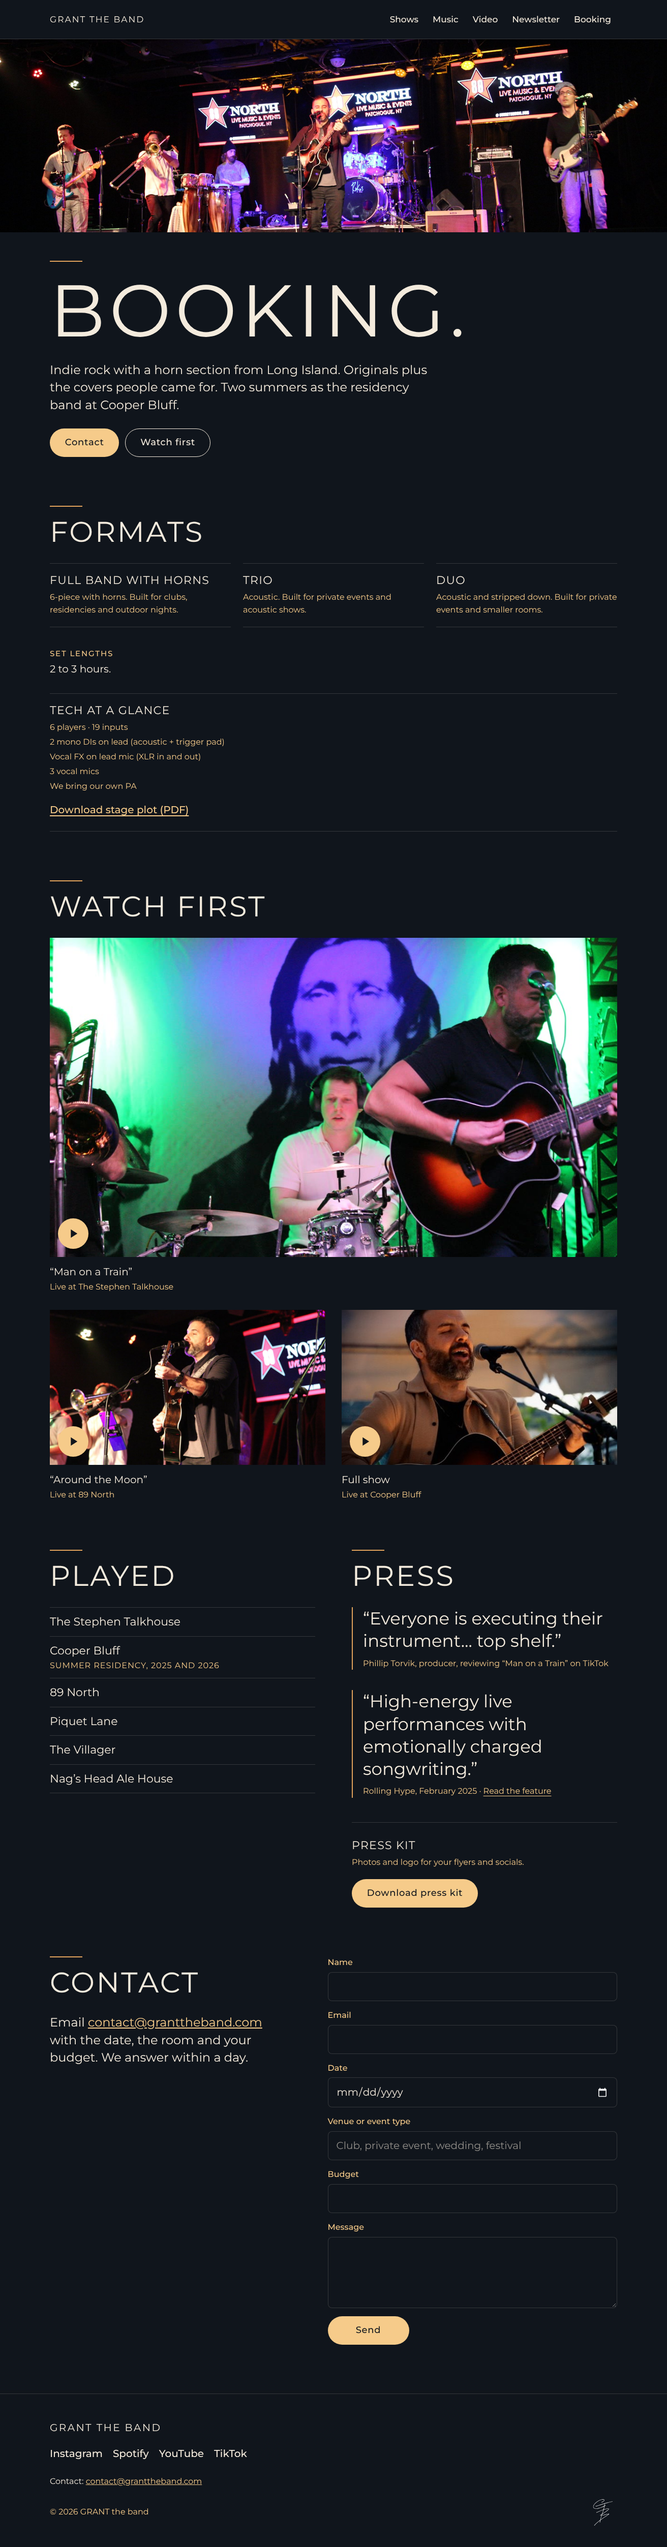
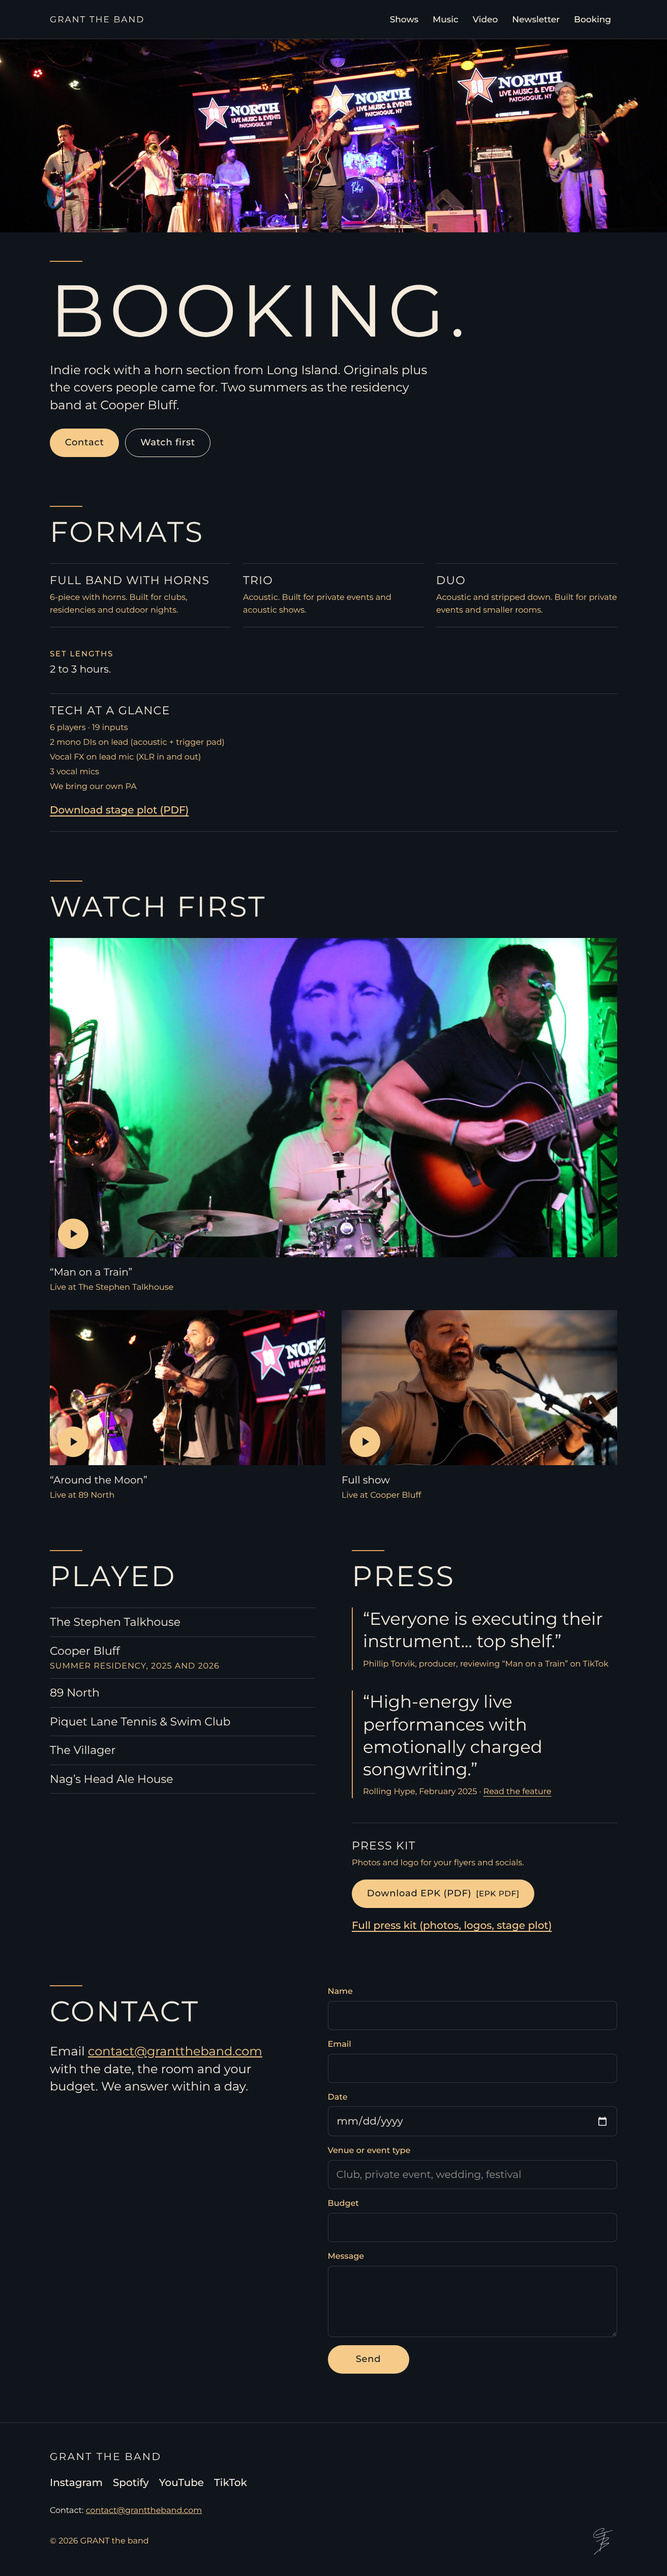
/book: EPK button and full press kit link; Piquet Lane Tennis & Swim Club
Drop the zip build script: the press kit files are Noah's, used as-is.

Claude-Session: https://claude.ai/code/session_01W6jjmem6fid2ThtCrqmyVk

diff --git a/src/data/site.ts b/src/data/site.ts
@@ -196,7 +196,7 @@ export const venuesPlayed: { name: string; note?: string }[] = [
   { name: 'The Stephen Talkhouse' },
   { name: 'Cooper Bluff', note: 'Summer Residency, 2025 and 2026' },
   { name: '89 North' },
-  { name: 'Piquet Lane' },
+  { name: 'Piquet Lane Tennis & Swim Club' },
   { name: 'The Villager' },
   { name: 'Nag’s Head Ale House' },
 ];
@@ -218,7 +218,9 @@ export const book = {
 };
 
 // Downloads in public/press/. Each renders only once its file exists.
+// Noah's files, used as-is (nothing in the build regenerates them).
 export const downloads = {
   stagePlot: '/press/grant-the-band-stage-plot.pdf',
-  kit: '/press/grant-the-band-press-kit.zip',
+  epk: '/press/grant-the-band-epk.pdf', // 2-page EPK
+  kit: '/press/grant-the-band-press-kit.zip', // EPK, stage plot, Photos/, Logos/, Music/, Bio.txt
 };

diff --git a/CLAUDE.md b/CLAUDE.md
@@ -176,12 +176,13 @@ Not on home: venue list, press quote, booking teaser. Those live on `/book`.
   - Then Set lengths "2 to 3 hours." (all in `book` in `site.ts`).
 - "Tech at a glance" under Formats, styled like a Formats entry (title + gold lines), from `book.tech`: 6 players · 19 inputs / 2 mono DIs on lead (acoustic + trigger pad) / Vocal FX on lead mic (XLR in and out) / 3 vocal mics / We bring our own PA. Then the "Download stage plot (PDF)" link. Never render the plot image on the page.
 - "Watch first": three clips, full band first.
-- "Played", in this order: The Stephen Talkhouse / Cooper Bluff (with "Summer Residency, 2025 and 2026" as a small gold second line) / 89 North / Piquet Lane / The Villager / Nag’s Head Ale House. No dates on any other venue. "Summer Residency" is capitalized.
+- "Played", in this order: The Stephen Talkhouse / Cooper Bluff (with "Summer Residency, 2025 and 2026" as a small gold second line) / 89 North / Piquet Lane Tennis & Swim Club / The Villager / Nag’s Head Ale House. No dates on any other venue. "Summer Residency" is capitalized.
 - "Press" (on /book only, never home; `press` in `site.ts`), in this order, each with an amber left rule, cream quote, small gold attribution:
   1. “Everyone is executing their instrument… top shelf.” Phillip Torvik, producer, reviewing “Man on a Train” on TikTok ("on TikTok" is plain text, no link, by Noah's call).
   2. “High-energy live performances with emotionally charged songwriting.” Rolling Hype, February 2025 · Read the feature (links to https://rollinghype.com/grant-the-band-the-energy-the-originals-and-the-covers-you-cant-miss/, new tab, rel="noopener").
 - Stage plot: "Download stage plot (PDF)" under Tech at a glance, linking `/press/grant-the-band-stage-plot.pdf`. Renders only if that file exists.
-- "Press kit" block under Press: "Photos and logo for your flyers and socials." + primary button "Download press kit" (`/press/grant-the-band-press-kit.zip`). The zip holds full-res 89north-full-band, 89north-noah-trombone, talkhouse-stage, talkhouse-noah, meroke-lane-cover (original), gtb-monogram.png, `press/bio.txt` (about 100 words: intro, formats, tracklist) and the stage plot once it exists. Rebuild it with `scripts/make-press-kit.sh` whenever any of those change.
+- "Press kit" block under Press: "Photos and logo for your flyers and socials.", primary button "Download EPK (PDF)" (`/press/grant-the-band-epk.pdf`, the 2-page EPK), then a secondary text link "Full press kit (photos, logos, stage plot)" (`/press/grant-the-band-press-kit.zip`). Each renders only if its file exists.
+- The files in `public/press/` are Noah's and are used as-is: the zip (EPK, stage plot, Photos/, Logos/, Music/, Bio.txt), the EPK PDF and the stage plot PDF. Nothing in the build regenerates them.
 - Contact: "Email contact@granttheband.com with the date, the room and your budget. We answer within a day." Plus a Netlify form, fields in this order: name, email, date, venue or event type (placeholder "Club, private event, wedding, festival"), budget, message. Honeypot field is visually hidden and aria-hidden.
 - No fan signup block on /book. The page is for buyers only.
 - Do not add a band member photo grid. The lineup rotates.
